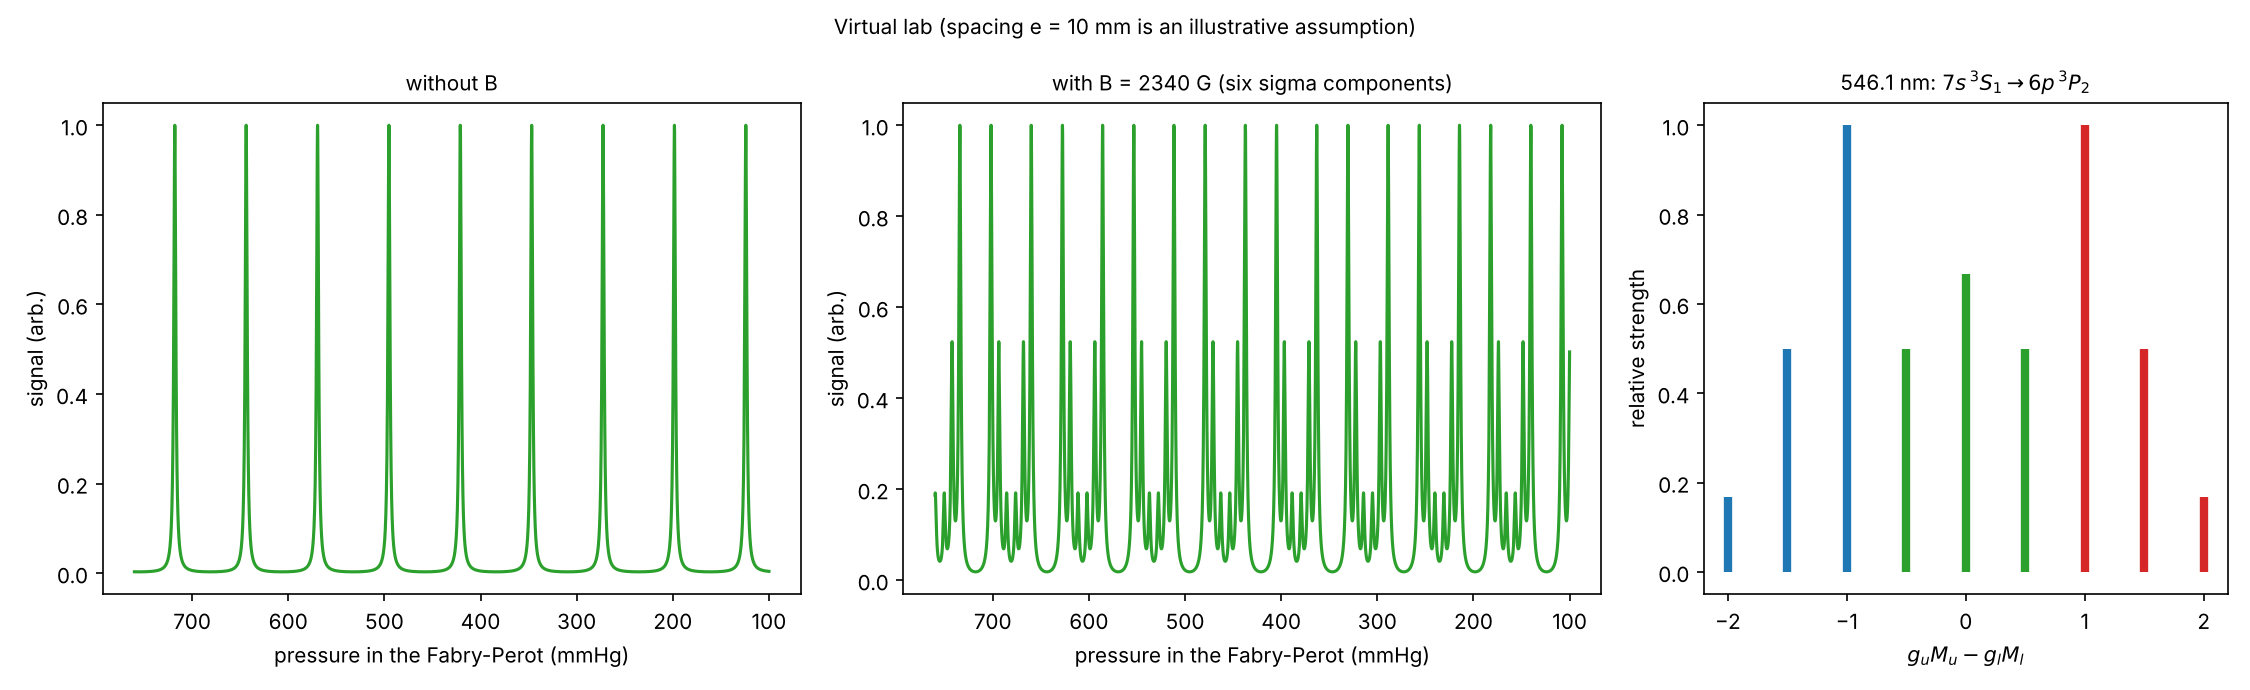
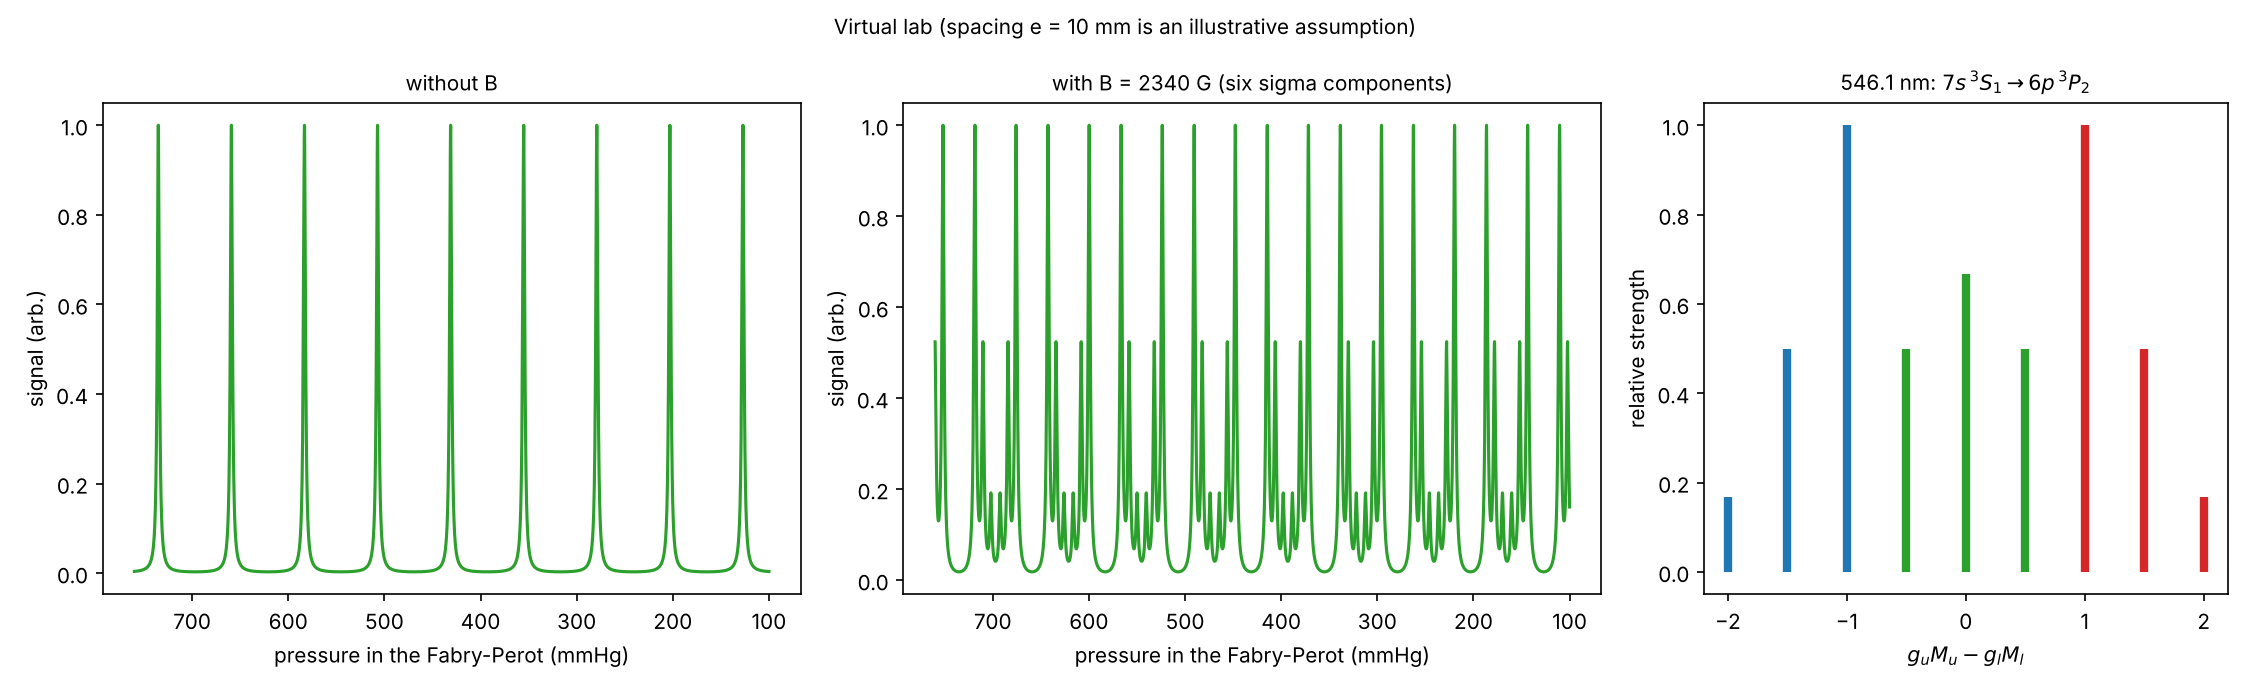
Mercury module and report: use T = 300 K (student-stated), note 1/T sensitivity
Claude-Session: https://claude.ai/code/session_018s69DRFj3JsSPrRcbaedmT

Changed region(s): [[0.4044, 0.1826, 0.7156, 0.8217], [0.0622, 0.1826, 0.3422, 0.8522]]

diff --git a/docs/ext_mercury.tex b/docs/ext_mercury.tex
@@ -7,14 +7,14 @@
 \begin{equation}
 \frac{\mu_B}{hc}=\frac{\Delta\sigma}{2B}.
 \end{equation}
-For the handout's $B=2340$~G and $T=293$~K the prediction is $\Delta P=32.45$~mmHg between the two peaks (the pressure period of one order, $\approx74$~mmHg for $e=10$~mm, is larger, so the two lines form doublets, as in the recordings of the poster). \texttt{bohr\_from\_peak\_spacing} turns a measured $\Delta P$ into $\mu_B/hc$ in \si{\per\centi\metre}/G, and \texttt{bohr\_uncertainty} propagates the reading error of $\Delta P$ and of $B$.
+For the handout's $B=2340$~G and $T=300$~K (the room temperature given by the student; the handout does not state it) the prediction is $\Delta P=33.2$~mmHg between the two peaks (the pressure period of one order, $\approx76$~mmHg for $e=10$~mm, is larger, so the two lines form doublets, as in the recordings of the poster). \texttt{bohr\_from\_peak\_spacing} turns a measured $\Delta P$ into $\mu_B/hc$ in \si{\per\centi\metre}/G, and \texttt{bohr\_uncertainty} propagates the reading error of $\Delta P$ and of $B$.
 
 \paragraph{What is checked.} (i) The Zeeman unit equals the CODATA $\mu_B/hc=0.46686$~\si{\per\centi\metre\per\tesla} and reproduces the handout's remark of about $0.0089$~nm per tesla for the 435.8~nm line. (ii) A simulated recording (all six $\sigma$ components, mirror reflectivity $R=0.9$) analysed with the handout's formula returns $\mu_B/hc$ within $2\times10^{-3}$ of the CODATA value, so the two-component simplification of the handout is justified at that finesse. This is a self-consistency check of the analysis, not a measurement.
 
-\paragraph{What is not known.} The handout's analysis does not need the mirror spacing $e$: it needs only $\Delta P$ between the two peaks, $B$ and $T$. The spacing follows from the pressure between two successive orders, $\Delta n=\lambda/2e$ (\texttt{analyse\_recording} returns it together with $\mu_B/hc$ and its uncertainty). The temperature and the recorded pressures are not in the handout, and no recording from this experiment is available to this report, so no experimental $\mu_B$ is derived here. The figure uses $e=10$~mm as an illustration only (the photographed poster shows roughly nine fringes between 700 and 100~mmHg, which is of that order; it was not digitised because the photograph is tilted and unscaled).
+\paragraph{What is not known.} The handout's analysis does not need the mirror spacing $e$: it needs only $\Delta P$ between the two peaks, $B$ and $T$. The spacing follows from the pressure between two successive orders, $\Delta n=\lambda/2e$ (\texttt{analyse\_recording} returns it together with $\mu_B/hc$ and its uncertainty). The result scales as $1/T$ through $dn/dP$, so an error of 3~K changes $\mu_B/hc$ by 1\%. The temperature and the recorded pressures are not in the handout, and no recording from this experiment is available to this report, so no experimental $\mu_B$ is derived here. The figure uses $e=10$~mm as an illustration only (the photographed poster shows roughly nine fringes between 700 and 100~mmHg, which is of that order; it was not digitised because the photograph is tilted and unscaled).
 
 \begin{figure}[h]
 \centering
 \includegraphics[width=\textwidth]{mercury_scan.pdf}
-\caption{Simulated recording without and with $B=2340$~G (left, centre; $e=10$~mm assumed, $T=293$~K) and the nine components (right; blue $\sigma^-$, red $\sigma^+$, green $\pi$).}
+\caption{Simulated recording without and with $B=2340$~G (left, centre; $e=10$~mm assumed, $T=300$~K) and the nine components (right; blue $\sigma^-$, red $\sigma^+$, green $\pi$).}
 \end{figure}

diff --git a/src/mercury.py b/src/mercury.py
@@ -91,7 +91,7 @@ def predicted_peak_spacing_mmhg(b_gauss: float, temperature_k: float, wavelength
     return dn / dn_dp(temperature_k)
 
 
-def pressure_scan(p_mmhg, b_tesla: float, e_mm: float, temperature_k: float = 293.0, reflectivity: float = 0.9,
+def pressure_scan(p_mmhg, b_tesla: float, e_mm: float, temperature_k: float = 300.0, reflectivity: float = 0.9,
                   observed_only: bool = False, polarisation: str = "sigma", wavelength_nm: float = LAMBDA0_NM):
     """Photomultiplier signal at the centre of the rings against the air pressure in the Fabry-Perot.
 
@@ -115,7 +115,7 @@ def pressure_scan(p_mmhg, b_tesla: float, e_mm: float, temperature_k: float = 29
     return out
 
 
-def fig_mercury_scan(e_mm: float = 10.0, temperature_k: float = 293.0, b_gauss: float = 2340.0):
+def fig_mercury_scan(e_mm: float = 10.0, temperature_k: float = 300.0, b_gauss: float = 2340.0):
     """Simulated recording without and with the field (the handout's B), and the component diagram. e_mm is an ILLUSTRATIVE spacing."""
     import matplotlib.pyplot as plt
     p = np.linspace(100, 760, 20000)
